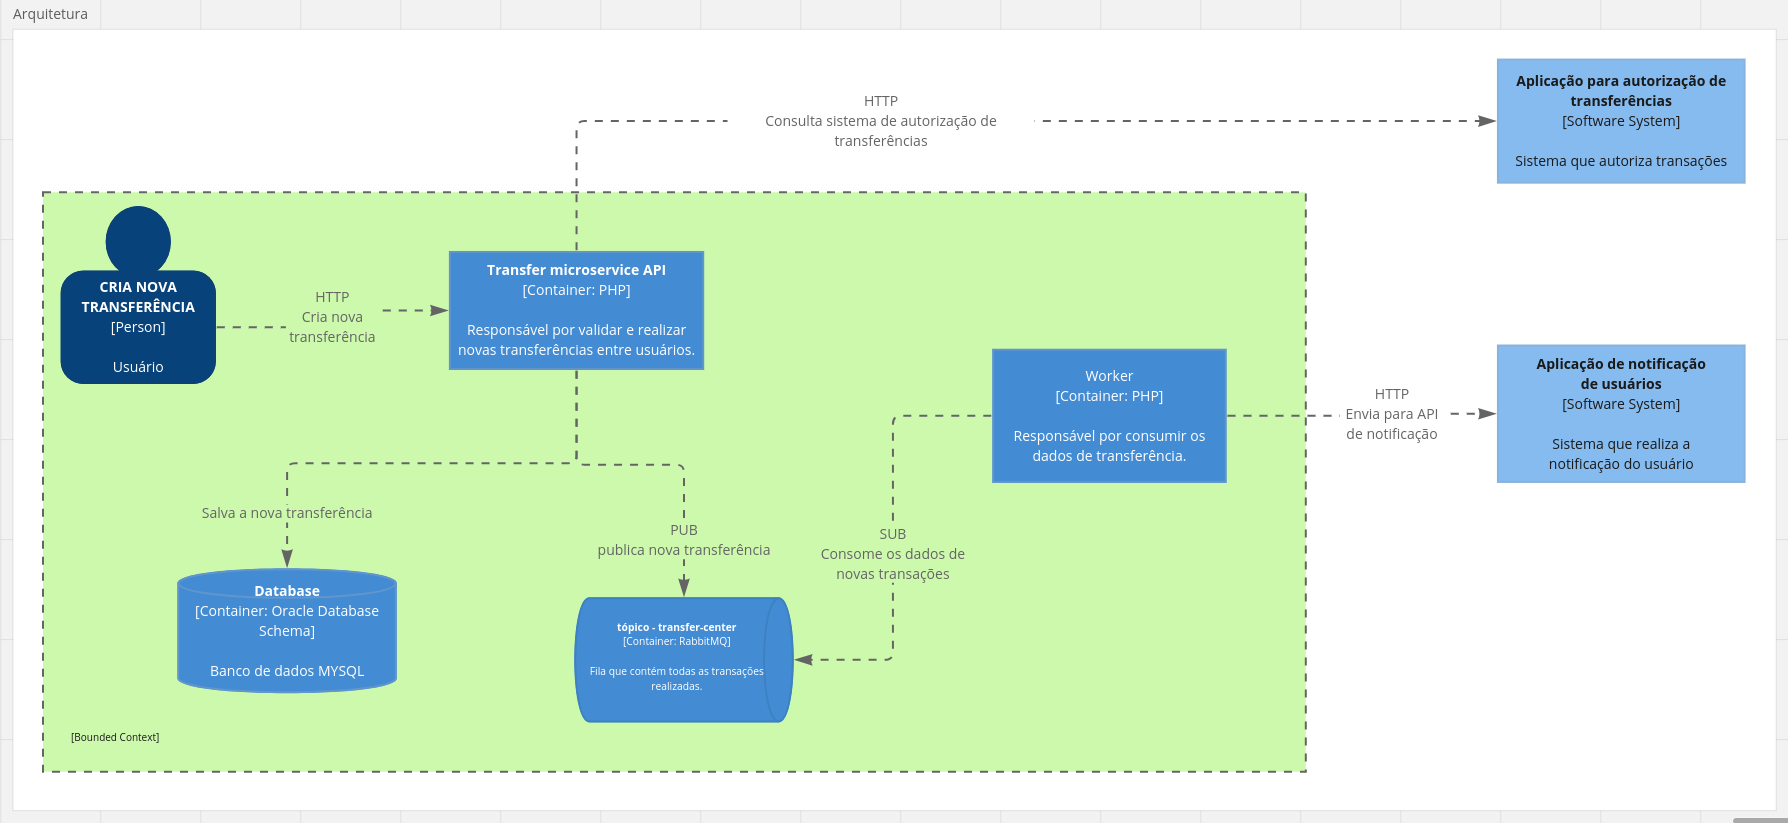
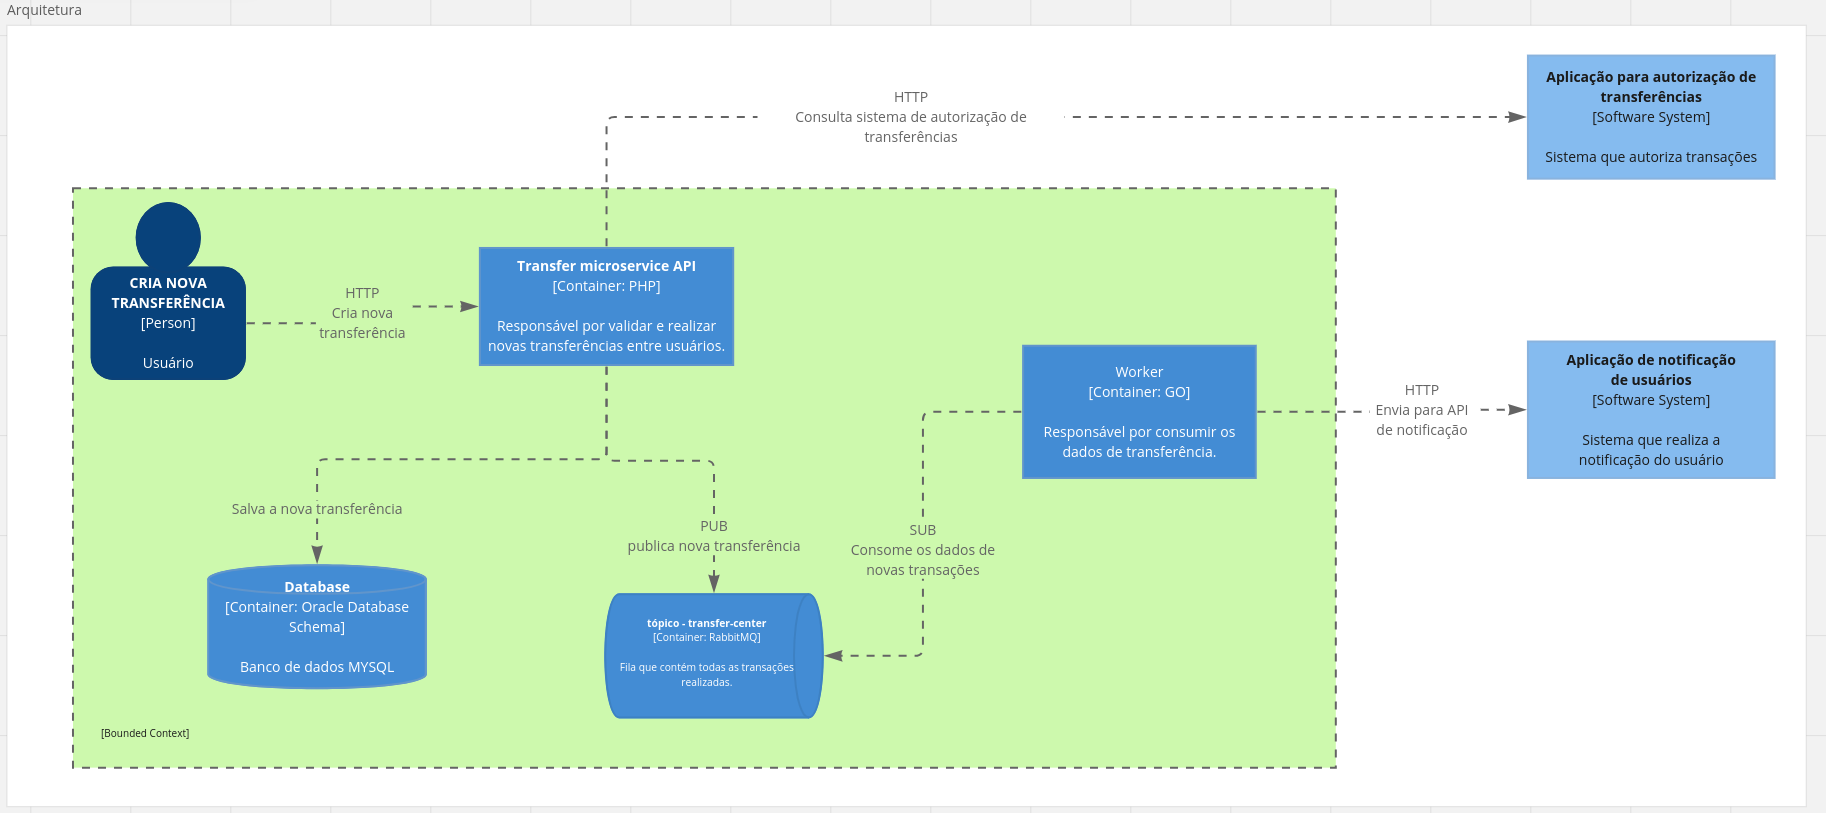
docs: update readme documentation

diff --git a/README.md b/README.md
@@ -2,13 +2,11 @@
 
 O Transfer Microservice (apelido) Api Responsável por realizar transferência entre usuários.
 
-pontos sobre a arquitetura atual:
+## Repositório do Worker
 
-- A criação de usuários pode ser realizada por outra api, para que aqui sejam tratadas apenas dados de transferências, e não cadastro de usuários.
-- Evoluir para uma arquitetura baseada em microserviços para criar sistemas especialistas que tem foco em resolver um único problema.
-- Adição de fila para notificação de usuários
+https://github.com/andreluizmicro/go-transfer-worker
 
-Uma simples evolução futura:
+## Arquitetura
 
 <img src="./public/images/architecture.png" width="1400">
 
@@ -32,8 +30,6 @@ rodar os comandos abaixo:
 4 - Rodar as migrations e seeders (OBS: Apenas para auxiliar o projeto, seu uso deve ser evitado por riscos de segurança).
 
     make docker-migrate
-
-
 
 
 ### Comandos do arquivo Makefile
